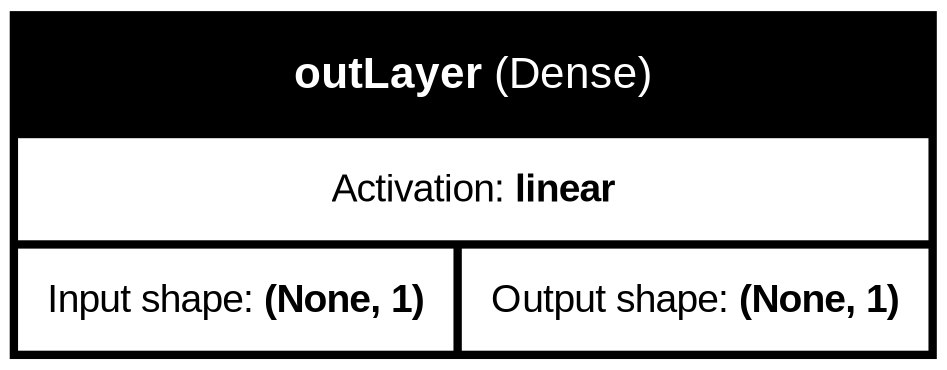
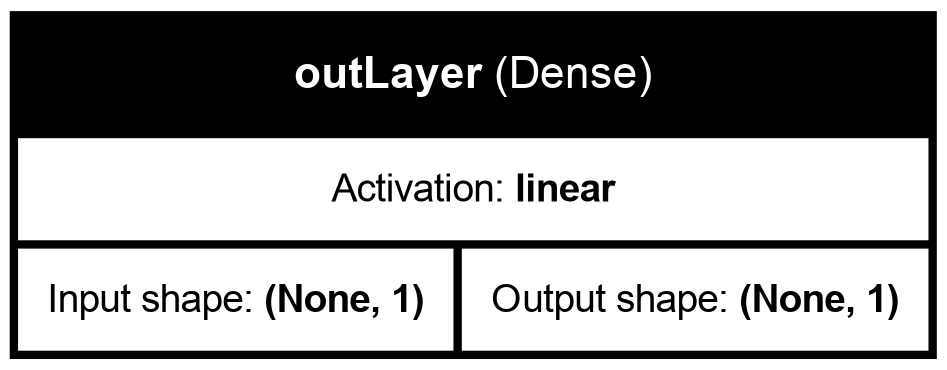
TCCM school. Small bug fixes

diff --git a/ChangeLog.md b/ChangeLog.md
@@ -6,6 +6,8 @@ All notable changes to this project will be documented in this file.
 The format is based on [Keep a Changelog](https://keepachangelog.com/en/1.1.0/),
 and this project adheres to [Semantic Versioning](https://semver.org/spec/v2.0.0.html).
 
+## **2026.11.22 [2.6.5]** "TCCM school. Small bug fixes"
+
 ## **2026.11.22 [2.6.1] - [2.6.4]** "TB & TCCM school"
 
 ### Added
